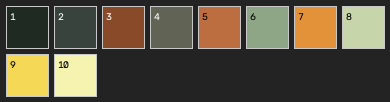
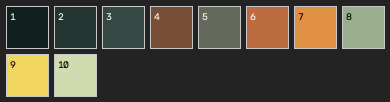
Better colors?

Changed region(s): [[0.2462, 0.0588, 0.7385, 0.4706], [0.8615, 0.0588, 0.9846, 0.4706], [0.1231, 0.5294, 0.2462, 0.9412]]

diff --git a/main.py b/main.py
@@ -9,7 +9,7 @@ if _WORKSPACE_ROOT not in sys.path:
 import cv2
 import numpy as np
 from estimate_pixels import scan_and_explore
-from kmeans import quantize_colors_kmeans
+from kmeans import quantize_colors_kmeans_lab
 
 
 def create_palette_swatch(centers, swatch_size=48, padding=6, cols=8):
@@ -69,21 +69,20 @@ def process_image(image_path, k=16, save_output=True, show_images=True):
     print(f"Detected True Grid  : {grid_w}x{grid_h} (Scale: {scale:.3f}, {1.0/scale:.2f}x)")
 
     # 3. Downscale original image to the true pixel grid
-    downscaled = cv2.resize(image, (grid_w, grid_h), interpolation=cv2.INTER_NEAREST)
+    # We MUST use INTER_AREA for downscaling. Nearest Neighbor throws away pixels and creates
+    # horrible aliasing/noise when converting a high-res image into a pixel art grid!
+    downscaled = cv2.resize(image, (grid_w, grid_h), interpolation=cv2.INTER_AREA)
 
-    # 4. Extract the SET of unique colors (not the raw pixel list)
+    # 4. Prepare pixels for K-Means
     flat_pixels = downscaled.reshape((-1, 3))
     total_pixel_count = len(flat_pixels)
     
-    unique_colors = np.unique(flat_pixels, axis=0)
-    unique_count = len(unique_colors)
-    print(f"\nStep 2: Extracting unique color set for K-Means...")
-    print(f"Total grid cells    : {total_pixel_count:,}")
-    print(f"Unique colors (Set) : {unique_count:,} (Clustering on the unique set)")
+    print(f"\nStep 2: Preparing pixels for Perceptual K-Means++...")
+    print(f"Total grid cells    : {total_pixel_count:,} (Clustering on the full pixel distribution)")
 
-    # 5. Run K-Means on the unique color set
-    print(f"\nStep 3: Running K-Means clustering (K={k}) on the unique colors...")
-    _, centers = quantize_colors_kmeans(unique_colors, k=k)
+    # 5. Run Perceptual K-Means++ on the full pixel distribution
+    print(f"\nStep 3: Running Perceptual CIELAB K-Means++ (K={k}) on the image pixels...")
+    _, centers = quantize_colors_kmeans_lab(flat_pixels, k=k)
     centers = np.asarray(centers, dtype=np.uint8)
 
     # Sort palette colors by luminance for organized presentation
@@ -108,20 +107,15 @@ def process_image(image_path, k=16, save_output=True, show_images=True):
 
     quantized_grid = centers[nearest_palette_indices].reshape((grid_h, grid_w, 3))
 
-    # 7. Render high-resolution display version with nearest neighbor
-    quantized_display = cv2.resize(quantized_grid, (w, h), interpolation=cv2.INTER_NEAREST)
-
     # 8. Create palette swatch
     palette_swatch = create_palette_swatch(centers, swatch_size=42, padding=6, cols=min(k, 8))
 
     # Optional: Save outputs
     if save_output:
         cv2.imwrite("quantized_grid.png", quantized_grid)
-        cv2.imwrite("quantized_full.png", quantized_display)
         cv2.imwrite("palette_swatch.png", palette_swatch)
         print("\nSaved output files:")
         print(f"  - 'quantized_grid.png' ({grid_w}x{grid_h} native pixel art)")
-        print(f"  - 'quantized_full.png' ({w}x{h} full resolution display)")
         print(f"  - 'palette_swatch.png' (Color palette preview)")
 
     # 9. Display results
@@ -131,17 +125,29 @@ def process_image(image_path, k=16, save_output=True, show_images=True):
         win_quant = f"Quantized Pixel Art ({grid_w}x{grid_h}, K={k})"
         win_palette = f"Discovered Palette (K={k})"
 
-        cv2.namedWindow(win_orig, cv2.WINDOW_NORMAL)
-        cv2.namedWindow(win_quant, cv2.WINDOW_NORMAL)
+        cv2.namedWindow(win_orig, cv2.WINDOW_AUTOSIZE)
+        cv2.namedWindow(win_quant, cv2.WINDOW_AUTOSIZE)
         cv2.namedWindow(win_palette, cv2.WINDOW_AUTOSIZE)
 
-        disp_w = min(1280, w)
-        disp_h = int(disp_w * (h / w))
-        cv2.resizeWindow(win_orig, disp_w, disp_h)
-        cv2.resizeWindow(win_quant, disp_w, disp_h)
+        import ctypes
+        user32 = ctypes.windll.user32
+        screen_h = user32.GetSystemMetrics(1)
+        
+        # Calculate the nearest integer scale multiplier to 90% of screen height
+        scale_factor = max(1, round((screen_h * 0.9) / grid_h))
+        
+        target_w = grid_w * scale_factor
+        target_h = grid_h * scale_factor
 
-        cv2.imshow(win_orig, image)
-        cv2.imshow(win_quant, quantized_display)
+        # Scale the HD original image to match the display window size using Nearest Neighbor
+        disp_orig = cv2.resize(image, (target_w, target_h), interpolation=cv2.INTER_NEAREST)
+        
+        # Explicitly upscale the pixel art using Nearest Neighbor. Since scale_factor is an integer,
+        # every pixel scales up perfectly into a crisp NxN block with no distortion.
+        disp_quant = cv2.resize(quantized_grid, (target_w, target_h), interpolation=cv2.INTER_NEAREST)
+
+        cv2.imshow(win_orig, disp_orig)
+        cv2.imshow(win_quant, disp_quant)
         cv2.imshow(win_palette, palette_swatch)
 
         cv2.waitKey(0)
@@ -149,7 +155,6 @@ def process_image(image_path, k=16, save_output=True, show_images=True):
 
     return {
         "grid": quantized_grid,
-        "display": quantized_display,
         "palette": centers,
         "dim": (grid_w, grid_h)
     }

diff --git a/kmeans.py b/kmeans.py
@@ -8,10 +8,34 @@ def quantize_colors_kmeans(colors, k=10, criteria=(cv2.TERM_CRITERIA_EPS + cv2.T
     Returns (labels, centers) where centers is uint8 shape (k, 3).
     """
     colors_f = np.asarray(colors, dtype=np.float32)
-    _, labels, centers = cv2.kmeans(colors_f, k, None, criteria, 10, cv2.KMEANS_RANDOM_CENTERS)  # type: ignore[arg-type]
+    # Using KMEANS_PP_CENTERS instead of random centers gives significantly better clusters
+    _, labels, centers = cv2.kmeans(colors_f, k, None, criteria, 10, cv2.KMEANS_PP_CENTERS)  # type: ignore[arg-type]
     centers_arr = np.asarray(centers, dtype=np.uint8)
     labels_arr = np.asarray(labels, dtype=np.int32)
     return labels_arr, centers_arr
+
+def quantize_colors_kmeans_lab(colors_bgr, k=10, criteria=(cv2.TERM_CRITERIA_EPS + cv2.TERM_CRITERIA_MAX_ITER, 100, 0.2)) -> tuple[np.ndarray, np.ndarray]:
+    """
+    Runs K-Means++ clustering on colors in the perceptually uniform CIELAB color space.
+    This guarantees that the clusters map to what human eyes actually perceive as distinct colors.
+    Returns (labels, centers_bgr).
+    """
+    # Convert BGR flat pixels to LAB image array
+    colors_bgr_img = np.asarray(colors_bgr, dtype=np.uint8).reshape(-1, 1, 3)
+    colors_lab_img = cv2.cvtColor(colors_bgr_img, cv2.COLOR_BGR2LAB)
+    
+    colors_lab_f = np.asarray(colors_lab_img, dtype=np.float32).reshape(-1, 3)
+    
+    # Run K-Means++ in LAB space (PP_CENTERS is much better than RANDOM_CENTERS)
+    _, labels, centers_lab = cv2.kmeans(colors_lab_f, k, None, criteria, 10, cv2.KMEANS_PP_CENTERS)  # type: ignore
+    
+    # Convert LAB centers back to BGR
+    centers_lab_img = np.asarray(centers_lab, dtype=np.uint8).reshape(1, -1, 3)
+    centers_bgr_img = cv2.cvtColor(centers_lab_img, cv2.COLOR_LAB2BGR)
+    
+    centers_bgr = np.asarray(centers_bgr_img.reshape(-1, 3), dtype=np.uint8)
+    labels_arr = np.asarray(labels, dtype=np.int32).flatten()
+    return labels_arr, centers_bgr
 
 
 def quantize_image(image_path, k=5, use_color_set=False):
